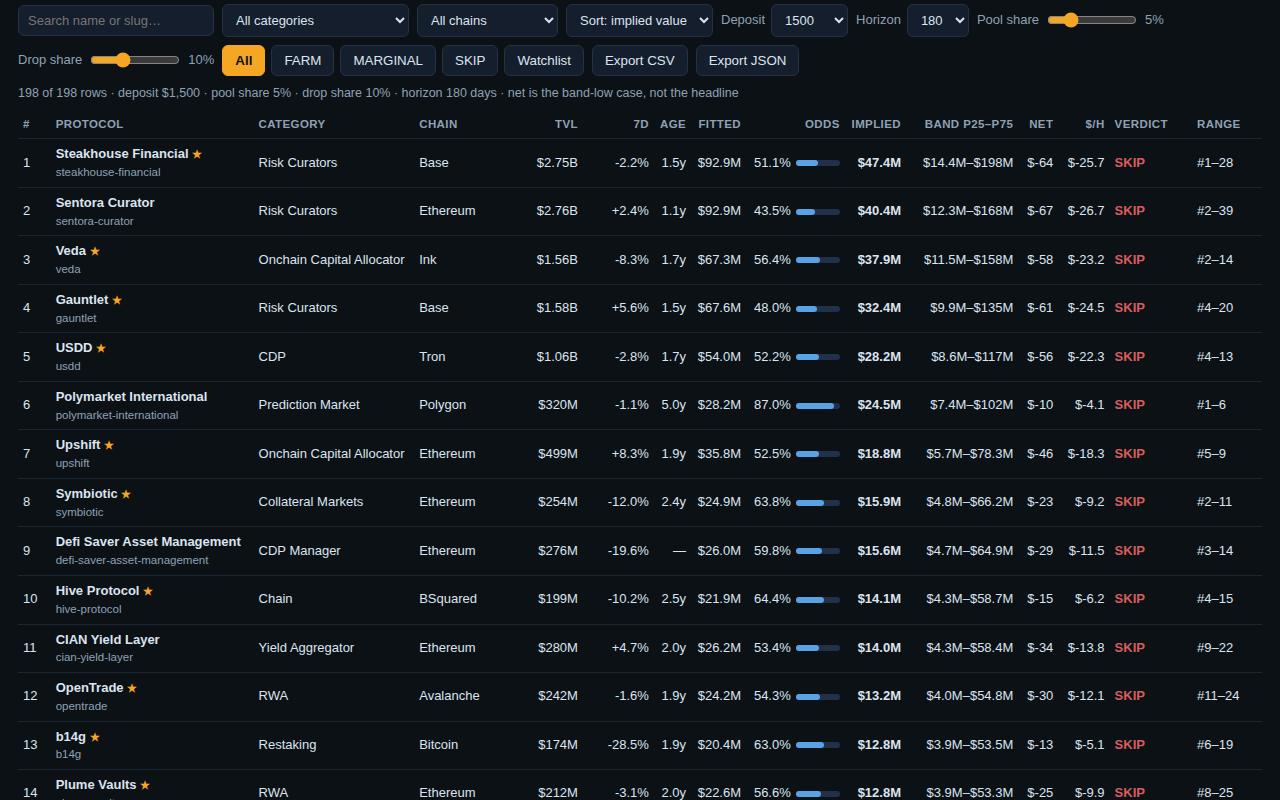
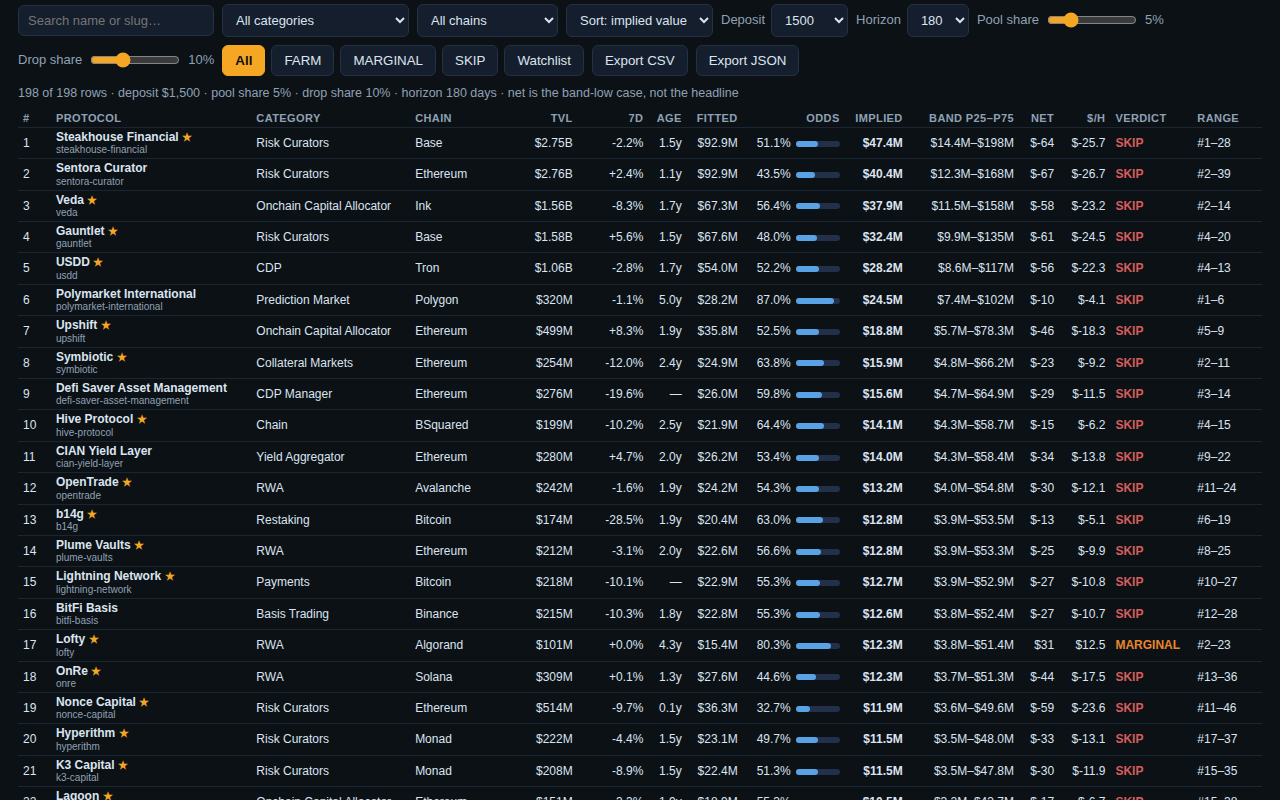
Token Radar Senja v4 (dense) — denser board table (12px type, 2px cell padding, 31px rows): 21 rows visible at 1280x800 (was 14), all 15 columns kept; board data, model and verdicts unchanged (FARM 20 / MARGINAL 116 / SKIP 62)

Changed region(s): [[0.4062, 0.125, 0.9688, 1.0], [0.0, 0.125, 0.375, 1.0]]

diff --git a/dashboard/app.css b/dashboard/app.css
@@ -28,12 +28,12 @@ h2{font-size:15px;margin:18px 0 8px}h2 .dim{font-weight:400;font-size:12px}
 .tabs button.on{background:var(--acc);color:#111;border-color:var(--acc);font-weight:700}
 .controls>button{background:var(--panel2);color:var(--txt);border:1px solid var(--line);border-radius:6px;padding:7px 12px;cursor:pointer}
 .statusline{color:var(--dim);font-size:12.5px;margin:8px 0}
-table{width:100%;border-collapse:collapse;font-size:13px}
-th,td{padding:6px 5px;border-bottom:1px solid #1b2635;text-align:left;white-space:nowrap}
-th{color:var(--dim);font-size:11.5px;text-transform:uppercase;letter-spacing:.4px;cursor:pointer;position:sticky;top:0;background:var(--bg)}
+table{width:100%;border-collapse:collapse;font-size:12px;line-height:1.2}
+th,td{padding:2px 5px;border-bottom:1px solid #1b2635;text-align:left;white-space:nowrap}
+th{color:var(--dim);font-size:11px;text-transform:uppercase;letter-spacing:.4px;cursor:pointer;position:sticky;top:0;background:var(--bg)}
 td.num,th.num{text-align:right}
 tbody tr{cursor:pointer}tbody tr:hover{background:#16202e}
-td .slug{color:var(--dim);font-size:11.5px;display:block}
+td .slug{color:var(--dim);font-size:10px;display:block;line-height:1.2}
 .v-FARM{color:var(--grn);font-weight:700}.v-MARGINAL{color:var(--org);font-weight:700}.v-SKIP{color:var(--red);font-weight:700}
 .oddsbar{display:inline-block;width:44px;height:6px;background:#22304a;border-radius:3px;vertical-align:middle;margin-left:5px}
 .oddsbar i{display:block;height:100%;background:var(--blu);border-radius:3px}
